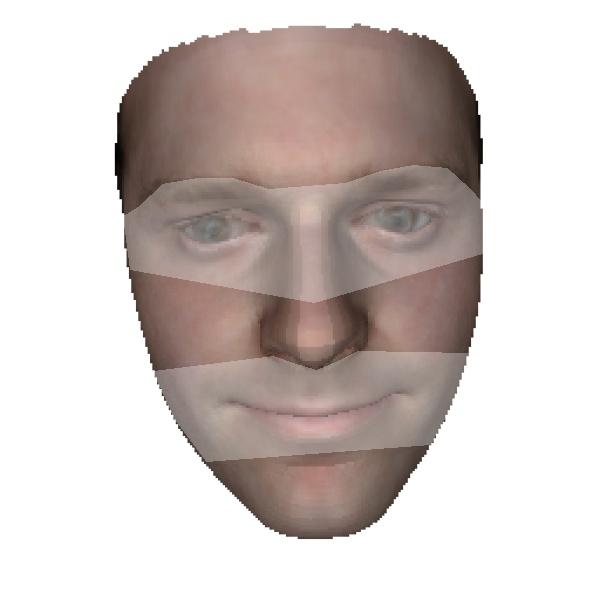
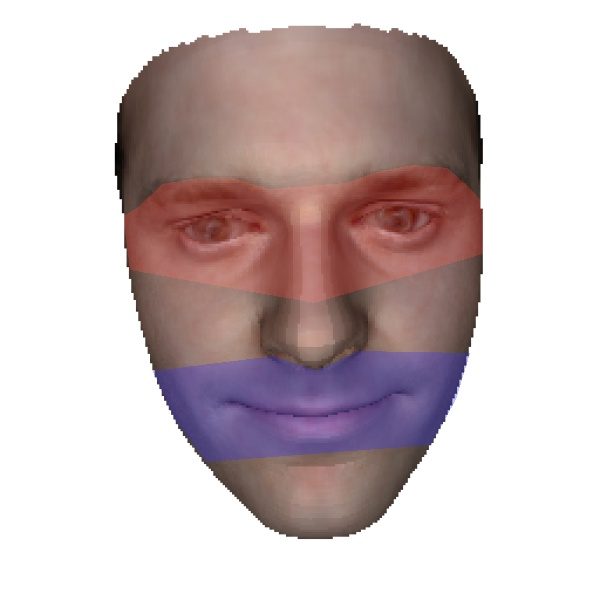
testes

Changed region(s): [[0.21, 0.27, 0.81, 0.51], [0.24, 0.57, 0.78, 0.78]]

diff --git a/src/runDetailsFace.py b/src/runDetailsFace.py
@@ -10,7 +10,7 @@ from collections import OrderedDict
 
 from PIL import Image, ImageDraw
 
-def drawRegiona(imagem, valores):
+def drawRegiona(imagem, valores, intensidade):
 
     nome = imagem.split('.')
     
@@ -25,12 +25,11 @@ def drawRegiona(imagem, valores):
         imagedet = imutils.resize(imagedet, width=600)
         outClean = imagedet.copy()
     else:
-        outClean = img.copy()
-        
+        outClean = img.copy()        
     
-    for val in valores:
-        
-        CHEEK_IDXS = OrderedDict([val])
+    for m, n in enumerate(valores):
+
+        CHEEK_IDXS = OrderedDict([n])
 
         detector    = dlib.get_frontal_face_detector()
         predictor   = dlib.shape_predictor("./model/shape_predictor_68_face_landmarks.dat")        
@@ -50,12 +49,12 @@ def drawRegiona(imagem, valores):
                     pts[i] = [shape.part(j).x, shape.part(j).y]            
                 
                 # Create mask that defines the polygon of points
-                # Red
-                # cv2.fillPoly(mask, [pts], (0, 0, 255))
-                # Blue
-                # cv2.fillPoly(mask, [pts], (255, 51, 51))
+                if intensidade[m] == -1:
+                    cv2.fillPoly(mask, [pts], (0, 0, 255))
+                if intensidade[m] == 1:
+                    cv2.fillPoly(mask, [pts], (255, 51, 51))
                 # White
-                cv2.fillPoly(mask, [pts], (255, 255, 255))
+                # cv2.fillPoly(mask, [pts], (255, 255, 255))
                 
                 alpha = 0.7
                 mascara = mask.astype(bool)
@@ -78,6 +77,6 @@ if __name__ == '__main__':
     
     for l in lista:
 
-        drawRegiona(l, [parts[0], parts[1]])
+        drawRegiona(l, [parts[0], parts[1]], [-1, 1])
         
         # break
